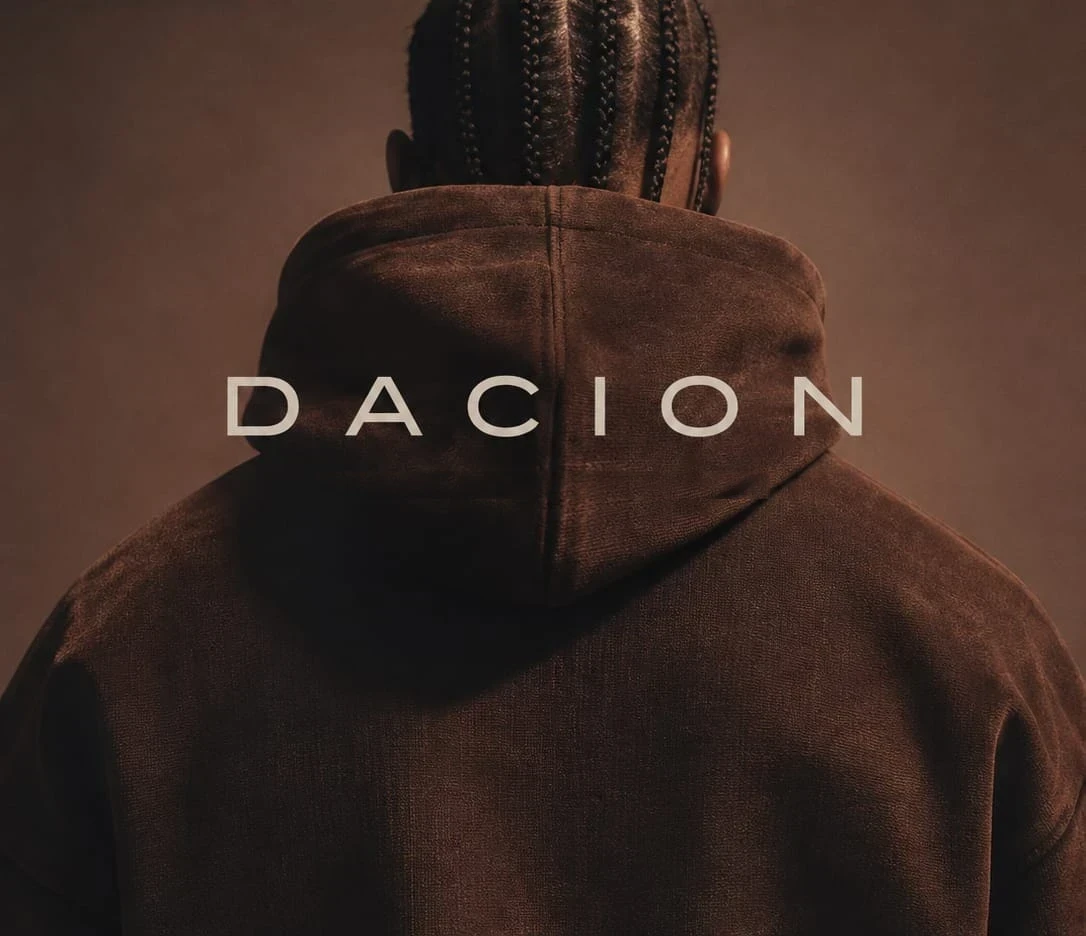
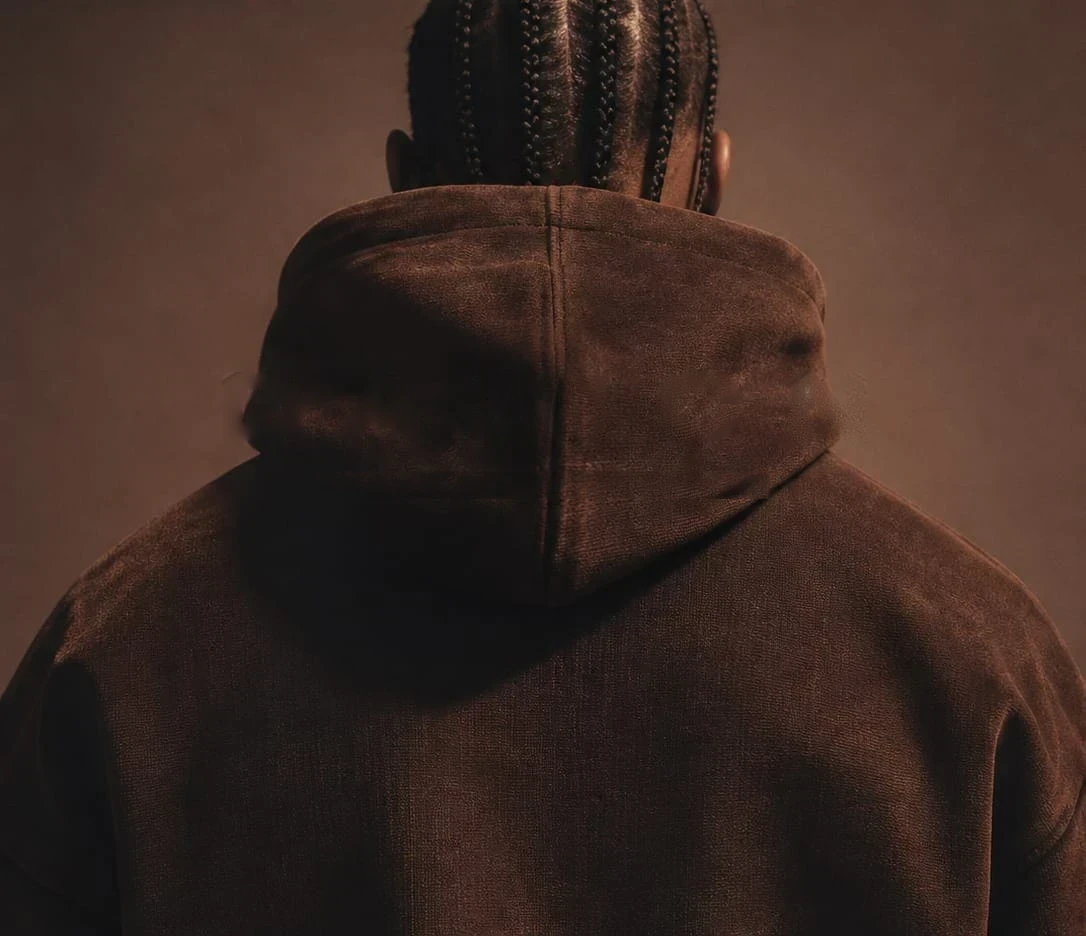
Write DACION over the hero photo in the theme color
The DACION lettering is now erased from the photo and set as live text
in the same place and size, so it changes with the color palette.
It uses Syncopate, a wide geometric face close to the identity. On the
light themes the photo gets a veil of the theme color so the dark name
stays readable (at least 3:1 on every theme); Charcoal darkens it a
little. The opening animation reveals the name letter by letter over
the photo.

Claude-Session: https://claude.ai/code/session_01QstYBRz1BtUwfu62VyMJJx

diff --git a/public/dacion-theme.css b/public/dacion-theme.css
@@ -264,36 +264,79 @@ html[data-theme="leather"] body::before {
 }
 
 /*
- * Topo da página inicial: a foto da marca ocupa a primeira tela, no lugar
- * do DACION gigante. O título continua no HTML (leitores de tela e a
- * abertura animada usam ele), só não aparece.
+ * Topo da página inicial: a foto da marca ocupa a primeira tela e o nome
+ * DACION é escrito por cima, em texto, na cor do tema escolhido.
+ * Nos temas claros a foto ganha um véu da cor do tema, para o nome (escuro)
+ * continuar legível; no Carvão a foto escurece um pouco.
  * O endereço da foto é relativo a este arquivo, para funcionar também na
  * subpasta do GitHub Pages.
  */
+:root,
+html[data-theme="leather"] { --hero-veil: transparent; }
+html[data-theme="charcoal"] { --hero-veil: rgba(26, 25, 24, 0.35); }
+html[data-theme="sand"] { --hero-veil: rgba(183, 172, 154, 0.55); }
+html[data-theme="white"] { --hero-veil: rgba(248, 248, 248, 0.55); }
+
+.home-hero {
+  --hero-photo-h: 100svh;
+  --hero-photo-top: -104px;
+  display: flow-root; /* a margem negativa da foto não "vaza" para o bloco */
+}
+
 .home-hero::before {
   content: "";
   display: block;
-  height: 100svh;
-  margin: -104px -24px 28px;
-  background: #3a261e url("brand/dacion-hero.webp") 50% 46% / cover no-repeat;
+  height: var(--hero-photo-h);
+  margin: var(--hero-photo-top) -24px 28px;
+  background:
+    linear-gradient(var(--hero-veil), var(--hero-veil)),
+    #3a261e url("brand/dacion-hero.webp") 50% 46% / cover no-repeat;
+  transition: background-color 0.45s ease;
 }
 
-.home-hero .hero-logo-word,
-.home-hero .hero-line {
+/* O nome, no lugar onde estava escrito na foto */
+.home-hero .hero-logo-word {
   position: absolute;
-  width: 1px;
-  height: 1px;
+  left: 50%;
+  /* mesmo ponto onde o nome estava na foto (foto em "cover", ponto de foco 50% 46%) */
+  top: calc(var(--hero-photo-top) + 46svh - 0.0263 * max(86.18vw, 100svh));
+  width: max-content;
+  transform: translate(-50%, -50%);
   margin: 0;
-  padding: 0;
-  overflow: hidden;
-  clip-path: inset(50%);
+  padding-left: 0.42em; /* compensa o espaço depois da última letra */
+  font-family: "Syncopate", "Neue Haas", Arial, sans-serif;
+  font-weight: 400;
+  /* mesma largura do nome original: 58% da largura da foto na tela */
+  font-size: min(calc(max(100vw, 116.03svh) * 0.0852), 12.8vw);
+  -webkit-text-stroke: 0.014em currentColor; /* traço um pouco mais forte, como na identidade */
+  line-height: 1;
+  letter-spacing: 0.42em;
+  text-align: center;
   white-space: nowrap;
+  color: var(--ink);
+  pointer-events: none;
+}
+
+.home-hero .hero-logo-word .hero-registered {
+  display: none;
+}
+
+.home-hero .hero-line {
+  display: none;
 }
 
 @media (max-width: 767px) {
+  .home-hero {
+    --hero-photo-h: 125vw; /* foto em 4:5 na largura da tela */
+    --hero-photo-top: -20px;
+  }
+
   .home-hero::before {
-    height: auto;
-    aspect-ratio: 4 / 5;
-    margin: -20px -16px 22px;
+    margin: var(--hero-photo-top) -16px 22px;
+  }
+
+  .home-hero .hero-logo-word {
+    top: calc(var(--hero-photo-top) + 54.2vw);
+    font-size: 12.35vw;
   }
 }

diff --git a/public/index.html b/public/index.html
@@ -16,7 +16,7 @@
     <link rel="icon" type="image/svg+xml" href="/favicon.svg" />
     <link rel="preconnect" href="https://fonts.googleapis.com">
     <link rel="preconnect" href="https://fonts.gstatic.com" crossorigin>
-    <link href="https://fonts.googleapis.com/css2?family=Inter:wght@400;500;600;700&display=swap" rel="stylesheet">
+    <link href="https://fonts.googleapis.com/css2?family=Inter:wght@400;500;600;700&family=Syncopate:wght@400&display=swap" rel="stylesheet">
     <script type="module" crossorigin src="/assets/index-DvgwvQkL.js?v=3"></script>
     <link rel="stylesheet" crossorigin href="/assets/index-mnoTxQvh.css">
     <link rel="stylesheet" href="/intro.css">
